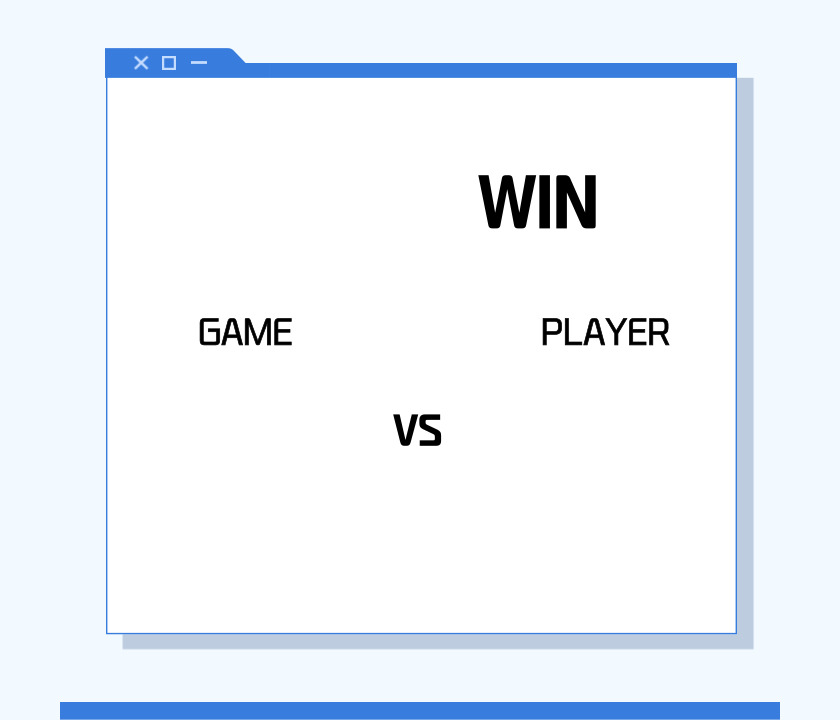
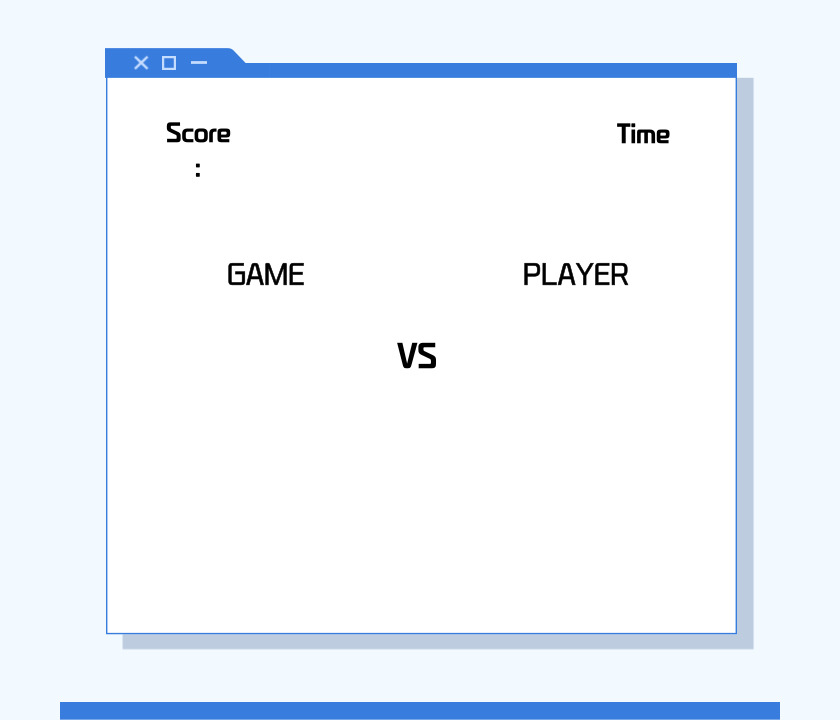
[feat] 게임 로직 구현

diff --git a/src/project/Game.java b/src/project/Game.java
@@ -1,48 +1,62 @@
 package project;
 
 import java.awt.Dimension;
+import java.awt.Font;
 import java.awt.Graphics;
 import java.awt.Image;
 import java.awt.event.ActionEvent;
 import java.awt.event.ActionListener;
+import java.util.Random;
 
 import javax.swing.ImageIcon;
 import javax.swing.JButton;
 import javax.swing.JFrame;
+import javax.swing.JLabel;
 import javax.swing.JPanel;
+import javax.swing.Timer;
 
 public class Game {
 	JFrame StartFrame = new JFrame("가위바위보 게임");
+	JButton[] SRPbtn = new JButton[3]; // 가위, 바위, 보 버튼 배열
+	int playerChoose; // 플레이어가 어떤 버튼을 선택했는지
+	int comChoose; // 컴퓨터가 어떤 거를 선택했는지
+	int gameCount; // 게임 카운트
+	int comScore = 0;
+	int playerScore = 0;
 	
+	JLabel timerLbl = new JLabel(""); // 타이머 라벨
+	JLabel playerScoreLbl = new JLabel("0"); // 플레이어 점수 라벨
+	JLabel comScoreLbl = new JLabel("0"); // 컴퓨터 점수 라벨
+
 	public Game() {
 		StartFrame(); // 시작화면 불러오기 (프로그램이 시작화면부터 이어짐)
 	}
-	
+
 	public void StartFrame() { // 시작 화면 메소드
-		
+
 		JButton StartBtn = new JButton(); // 게임시작 버튼
 		JButton ExplainBtn = new JButton("게임 설명"); // 게임설명 버튼
-		
+
 		StartBtn.setBounds(80, 560, 250, 80);
 		StartFrame.add(StartBtn);
 		ExplainBtn.setBounds(80, 470, 250, 80);
 		StartFrame.add(ExplainBtn);
-		
+
 		StartFrame.setLayout(null); // 시작 화면의 배치 방법을 null로 지정
-		
+
 		ImagePanel StartBtnImg = new ImagePanel(new ImageIcon("./image/게임시작버튼.png").getImage());
 		StartBtn.add(StartBtnImg);
-		
+
 		ImagePanel StartFrameImg = new ImagePanel(new ImageIcon("./image/게임시작화면.jpg").getImage());
 		StartFrame.add(StartFrameImg);
-		
+
 		ExplainBtn.addActionListener(new ActionListener() { // 게임설명 버튼을 눌렀을 때
 			@Override
 			public void actionPerformed(ActionEvent e) {
 				ExplainFrame(); // 게임설명 화면 불러오기
 			}
 		});
-		
+
 		StartBtn.addActionListener(new ActionListener() { // 게임시작 버튼을 눌렀을 때
 			@Override
 			public void actionPerformed(ActionEvent e) {
@@ -50,55 +64,134 @@ public class Game {
 				PlayFrame(); // 게임진행 화면 불러오기
 			}
 		});
-		
+
 		StartFrame.setResizable(false); // 창 크기 조절 불가
 		StartFrame.setSize(840, 720);
 		StartFrame.setLocationRelativeTo(null); // 창을 정중앙에서 출력
 		StartFrame.setVisible(true); // 창이 화면에 보이게
 		StartFrame.setDefaultCloseOperation(JFrame.EXIT_ON_CLOSE); // 창을 닫았을 때 프로그램이 종료되게 함
 	}
-	
+
 	public void PlayFrame() { // 게임진행 화면
 		JFrame PlayFrame = new JFrame("게임 화면");
-		JButton[] SRPbtn = new JButton[3]; // 가위, 바위, 보 버튼 배열
-		
-		for(int i = 0; i < SRPbtn.length; i++) {
+
+		for (int i = 0; i < SRPbtn.length; i++) {
 			SRPbtn[i] = new JButton();
-			
-			ImagePanel SRPbtnImg = new ImagePanel(new ImageIcon("./image/버튼" + (i+1) + ".png").getImage());
+
+			ImagePanel SRPbtnImg = new ImagePanel(new ImageIcon("./image/버튼" + (i + 1) + ".png").getImage());
 			SRPbtn[i].add(SRPbtnImg);
-			
-			SRPbtn[i].setBounds((i+2)*67 + i*150, 470, 140, 140);
+
+			SRPbtn[i].setBounds((i + 2) * 67 + i * 150, 470, 140, 140);
+			SRPbtn[i].addActionListener(btnListener);
 			PlayFrame.add(SRPbtn[i]);
 		}
 		
+		playerScoreLbl.setBounds(220, 17, 500, 300);
+		playerScoreLbl.setFont(new Font("고딕",Font.BOLD,35));
+		PlayFrame.add(playerScoreLbl);
+		
+		comScoreLbl.setBounds(160, 17, 500, 300);
+		comScoreLbl.setFont(new Font("고딕",Font.BOLD,35));
+		PlayFrame.add(comScoreLbl);
+
 		ImagePanel PlayFrameImg = new ImagePanel(new ImageIcon("./image/게임진행화면.jpg").getImage());
 		PlayFrame.add(PlayFrameImg);
 		
+		
+
+		// 게임이 3초마다 진행되게 하는 타이머
+		Timer timer = new Timer(3000, new ActionListener() {
+			@Override
+			public void actionPerformed(ActionEvent evt) {
+				PlayLogic();
+				System.out.println("게임 카운트: " + gameCount);
+
+				if (gameCount >= 3) {
+					((Timer) evt.getSource()).stop();
+					// 게임 종료 후 승자 결정
+					String winner;
+					if (playerScore > comScore) {
+						winner = "플레이어";
+					} else if (comScore > playerScore) {
+						winner = "컴퓨터";
+					} else {
+						winner = "무승부";
+					}
+					System.out.println("게임 종료! " + winner + " 승리!");
+				}
+			}
+		});
+		timer.start();
+
 		PlayFrame.setVisible(true);
 		PlayFrame.setResizable(false);
 		PlayFrame.setSize(840, 720);
 		PlayFrame.setLocationRelativeTo(null);
 		PlayFrame.setDefaultCloseOperation(JFrame.EXIT_ON_CLOSE);
 	}
+
+	ActionListener btnListener = new ActionListener() {
+
+		@Override
+		public void actionPerformed(ActionEvent e) {
+			for (int i = 0; i < SRPbtn.length; i++) {
+				if (e.getSource() == SRPbtn[i]) {
+					// 해당 버튼에 따라 playerChoose에 값을 할당
+					playerChoose = i;
+					System.out.println("Player 선택: " + playerChoose);
+				}
+			}
+		}
+	};
+
+	public void PlayLogic() {
+		Random comRd = new Random();
+		comChoose = comRd.nextInt(3);
+		System.out.println("컴퓨터 선택: " + comChoose);
+
+		switch (playerChoose - comChoose) {
+		case 0:
+			System.out.println("비겼습니다.");
+			break;
+		case 1:
+		case -2:
+			System.out.println("이겼습니다.");
+			playerScore++;
+			break;
+		case 2:
+		case -1:
+			System.out.println("졌습니다.");
+			comScore++;
+			break;
+		}
+
+		System.out.println("플레이어 점수: " + playerScore + " vs " + "컴퓨터 점수: " + comScore);
+
+		playerChoose = -1;
+		gameCount++;
+	}
 	
+	public void ResultFrame() {
+		
+	}
+
 	public void ExplainFrame() { // 게임설명 화면
 		JFrame ExplainFrame = new JFrame("게임 설명");
-		
+
 		ImagePanel ExplainFrameImg = new ImagePanel(new ImageIcon("./image/게임설명화면.jpg").getImage());
 		ExplainFrame.add(ExplainFrameImg);
-		
+
 		ExplainFrame.setVisible(true);
 		ExplainFrame.setResizable(false);
 		ExplainFrame.setSize(840, 720);
 		ExplainFrame.setLocationRelativeTo(null);
 		ExplainFrame.setDefaultCloseOperation(JFrame.DISPOSE_ON_CLOSE); // 창을 닫았을 때 해당 창만 종료
 	}
-	
+
 	public static void main(String[] args) {
 		new Game();
 	}
-	
+
 }
 
 class ImagePanel extends JPanel { // 이미지 클래스 (ImagePanel이 JPanel을 상속받음)
